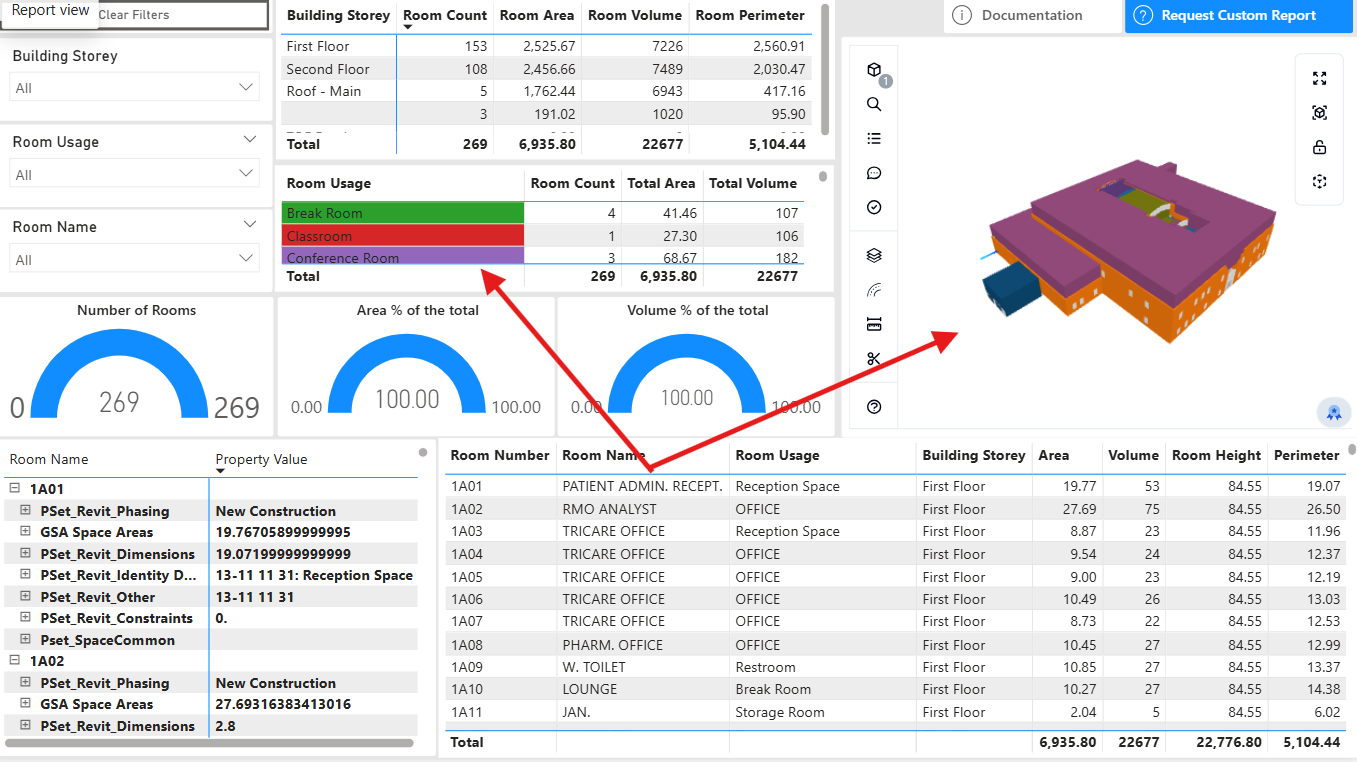
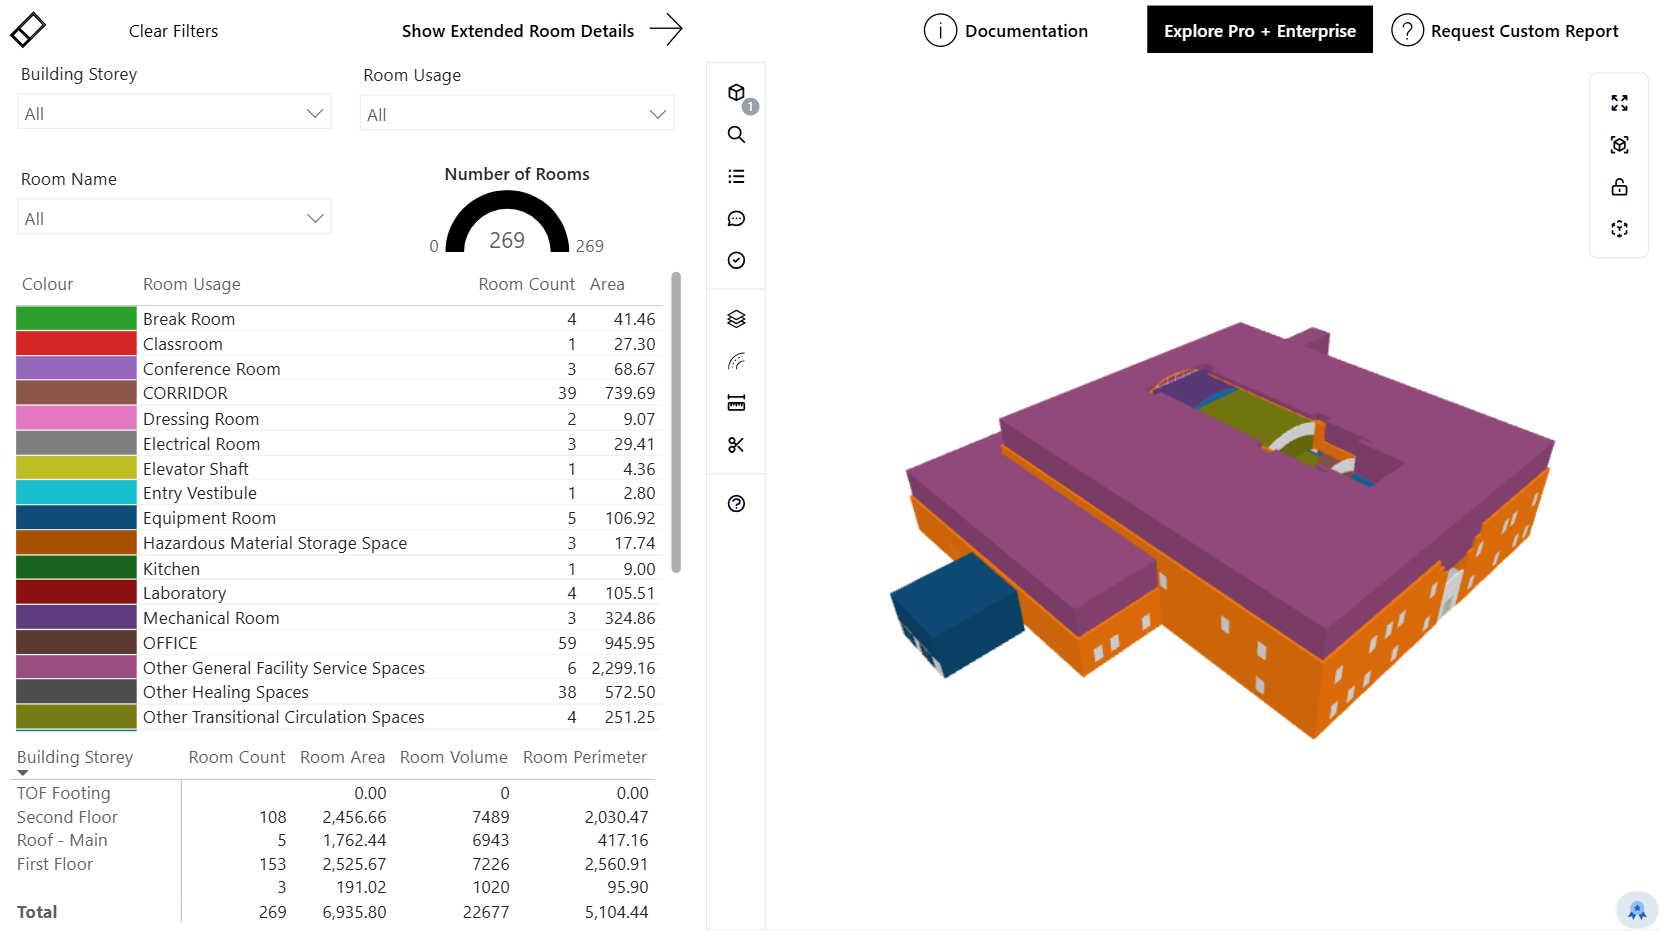
Room Analytics documentation & 4D iFrame Update (#38)
* feat: overhaul room dashboard visuals, update thumbnail, and fix iFrame in docs

* docs: update 4D dashboard iframe and remove deprecated cost columns

---------

diff --git a/docs/IFC_Room_Analysis.md b/docs/IFC_Room_Analysis.md
@@ -5,7 +5,7 @@ title: IFC Space Analytics & Occupancy Dashboard
 
 # IFC Space Analytics & Occupancy Dashboard
 
-<iframe title="IFC Space Analytics" style="width: 100%; aspect-ratio: 16 / 10;" width="100%" src="https://app.powerbi.com/view?r=eyJrIjoiZWMzZmJiN2QtOTg3OS00M2ZiLTgzYzItZTAyNDE4YWQ2NjRmIiwidCI6IjQ0YjY0MGYzLTQ5YjAtNDMwNC05Yzk4LWM2MWQwYmMwZGMwMiJ9" frameborder="0" allowFullScreen="true"></iframe>
+<iframe title="IFC Space Analytics" style="width: 100%; aspect-ratio: 16 / 9;" src="https://app.powerbi.com/reportEmbed?reportId=39247cb4-5338-457b-bd45-65c2edf38d12&autoAuth=true&ctid=44b640f3-49b0-4304-9c98-c61d0bc0dc02" frameborder="0" allowFullScreen="true"></iframe>
 
 Explore the dashboard above. You can filter by Level, Room Usage, or select individual elements in the 3D viewer to see their specific properties.
 
@@ -13,6 +13,26 @@ Explore the dashboard above. You can filter by Level, Room Usage, or select indi
 The **IFC Space Analytics Dashboard** is a powerful Power BI template designed to bridge the gap between BIM (Building Information Modeling) data and Facility Management operations. By directly ingesting `.ifc` files, this report transforms raw geometry and property data into actionable insights regarding space usage, occupancy distribution, and volumetric analysis.
 
 This tool is essential for **BIM Managers**, **Facility Managers**, and **Owner Operators** looking to visualize their asset performance without needing complex BIM authoring software.
+
+---
+
+## Report Structure: Overview vs. Detail
+
+To provide both high-level insights and granular engineering data, the dashboard is split into two distinct views:
+
+### 1. Space Overview (Executive View)
+Designed for stakeholders who need quick answers. This page features:
+* **Interactive 3D Viewer:** A large, central visualization color-coded by Room Function.
+* **Gauge Chart:** An instant visual indicator showing the total **Number of Rooms** in the filtered selection.
+* **Usage Summary List:** A color-coded table displaying room types (e.g., Office, Corridor) alongside their count and total area, replacing complex engineering grids.
+
+### 2. Quantity Takeoff (Detailed View)
+Designed for engineers and estimators. Accessible via the **"Show Extended Room Details"** navigation button, this page includes:
+* **Detailed Matrix:** A comprehensive table listing every room with its specific properties (Perimeter, Height, Volume).
+* **Advanced Filtering:** Granular control to filter data by Level, Usage, or Name.
+* **Raw Property Data:** Access to technical IFC parameters for validation.
+
+---
 
 ## Key Features
 
@@ -27,11 +47,11 @@ One of the biggest challenges in IFC data is inconsistent naming. Some files use
 
 To solve this, this dashboard utilizes a **DAX Priority Matrix**. It scans the model for space usage data in the following hierarchical order:
 
-| Priority Level | Data Source | Property Scanned | Description |
+| Level | Data Source | Property Scanned | Description |
 | :--- | :--- | :--- | :--- |
-| **1. Standard** | **IFC Standard** | `Pset_SpaceCommon` > `OccupancyType` | The most reliable, standard-compliant method. |
-| **2. Software** | **Revit / Authoring Tool** | `Category Description` | Checks for software-specific categories often exported by default. |
-| **3. Convention** | **Direct Naming** | `SpaceUsage`, `RoomFunction`, `Usage` | Looks for explicit, user-defined parameters commonly used in FM. |
+| **1. Standard** | **IFC Standard** | `Pset_SpaceCommon` / `OccupancyType` | The most reliable, standard-compliant method. |
+| **2. Software** | **Authoring Tool** | `Category Description` | Checks for software-specific categories often exported by default. |
+| **3. Convention** | **Direct Naming** | `SpaceUsage`, `Usage` | Looks for explicit, user-defined parameters commonly used in FM. |
 | **4. Inference** | **Fuzzy Matching** | *Keywords search* | Scans all properties for text containing "Usage" or "Occupancy". |
 | **5. Fallback** | **Default** | *Unassigned* | If no data is found, it is flagged for the BIM Manager to review. |
 

diff --git a/docs/IFC_4DPlanning.md b/docs/IFC_4DPlanning.md
@@ -5,7 +5,7 @@ title: 4D Construction Dashboard
 
 # Technical Documentation: 4D Construction Dashboard
 
-<iframe title="ifcviewer_4D" width="100%" height="600" src="https://app.powerbi.com/view?r=eyJrIjoiYzU4MDAzOWQtODA1MC00MmY5LWE1ZjMtMTBkOGU4NzFjOGI5IiwidCI6IjQ0YjY0MGYzLTQ5YjAtNDMwNC05Yzk4LWM2MWQwYmMwZGMwMiJ9" frameborder="0" allowFullScreen="true"></iframe>
+<iframe title="ifcviewer_4D" style="width: 100%; aspect-ratio: 16 / 9;" src="https://app.powerbi.com/reportEmbed?reportId=fe804611-31ce-453a-94fd-bfd5debaaf1a&autoAuth=true&ctid=44b640f3-49b0-4304-9c98-c61d0bc0dc02" frameborder="0" allowFullScreen="true"></iframe>
 
 ## Executive Overview
 The **4D Construction Dashboard** serves as a specialized **Digital Twin**, integrating Building Information Modeling (IFC Data) with Construction Scheduling and Management. By linking the physical model (**ifc**) directly to the project schedule, it provides stakeholders with a "time-machine" view of the project's progress.
@@ -48,15 +48,14 @@ This is the primary dataset driving the Gantt chart and 4D simulation.
 
 ---
 
-### 3. Sheet: ResourceToTask (Cost & Resources)
-This sheet handles the "4D" aspect (Cost) by linking resources to specific activities.
+### 3. Sheet: ResourceToTask (Resource Allocation)
+This sheet handles the resource allocation logic by linking specific resources to project activities.
 > **Important:** The sheet name must remain exactly **ResourceToTask**.
 
 | Attribute Name | Data Type | Description & Usage |
 | :--- | :--- | :--- |
 | **ResourceGUID** | Text | Unique ID for the resource (Labor, Material, Equipment). |
-| **ActivityID** | Text | **Foreign Key.** This **MUST match** an **ActivityID** from the **Task_Table**. It links the cost to the schedule. |
-| **Cost** | Currency | The financial value associated with this resource allocation. |
+| **ActivityID** | Text | **Foreign Key.** This **MUST match** an **ActivityID** from the **Task_Table**. It creates the relationship between the resource and the schedule task. |
 
 ![Resource Table Example](../_media/resource-table-screenshot.png)
 
@@ -69,20 +68,20 @@ This sheet handles the "4D" aspect (Cost) by linking resources to specific activ
 ### How to Link Your Data
 The dashboard is designed to be dynamic. You don't need to edit the Power BI file structure; simply update the connection parameter.
 
-1.  Open the Power BI Report (**.pbix**).
-2.  Go to **Home** > **Transform Data** > **Edit Parameters**.
-3.  Locate the parameter named **4D_Planning_Template**.
-4.  Paste the full file path of your local Excel file.
-    * *Example:* `C:\Users\Name\Projects\4D_Schedule.xlsx`
-5.  Click **OK** and then **Apply Changes**.
+1.  Open the Power BI Report (**.pbix**).
+2.  Go to **Home** > **Transform Data** > **Edit Parameters**.
+3.  Locate the parameter named **4D_Planning_Template**.
+4.  Paste the full file path of your local Excel file.
+    * *Example:* `C:\Users\Name\Projects\4D_Schedule.xlsx`
+5.  Click **OK** and then **Apply Changes**.
 
 ### How to Update Progress
 As the project moves forward, you only need to update the Excel file:
-1.  Open your linked Excel Workbook.
-2.  Update the **Status** column (e.g., change specific tasks from "In Progress" to "Completed").
-3.  Update **PercentageComplete** and **Actual** dates if necessary.
-4.  **Save** the Excel file.
-5.  In Power BI (or the Web Viewer), click the **Refresh** button. The Dashboard, Gantt Chart, and 3D Coloring will update instantly.
+1.  Open your linked Excel Workbook.
+2.  Update the **Status** column (e.g., change specific tasks from "In Progress" to "Completed").
+3.  Update **PercentageComplete** and **Actual** dates if necessary.
+4.  **Save** the Excel file.
+5.  In Power BI (or the Web Viewer), click the **Refresh** button. The Dashboard, Gantt Chart, and 3D Coloring will update instantly.
 
 ---
 
